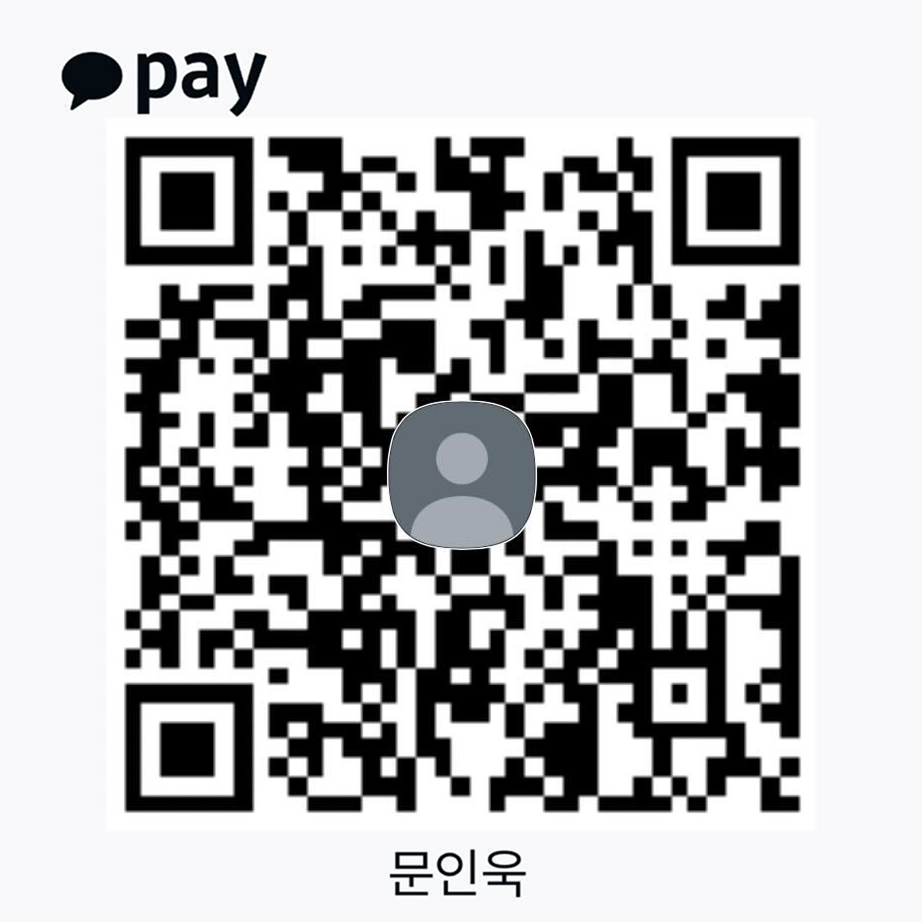
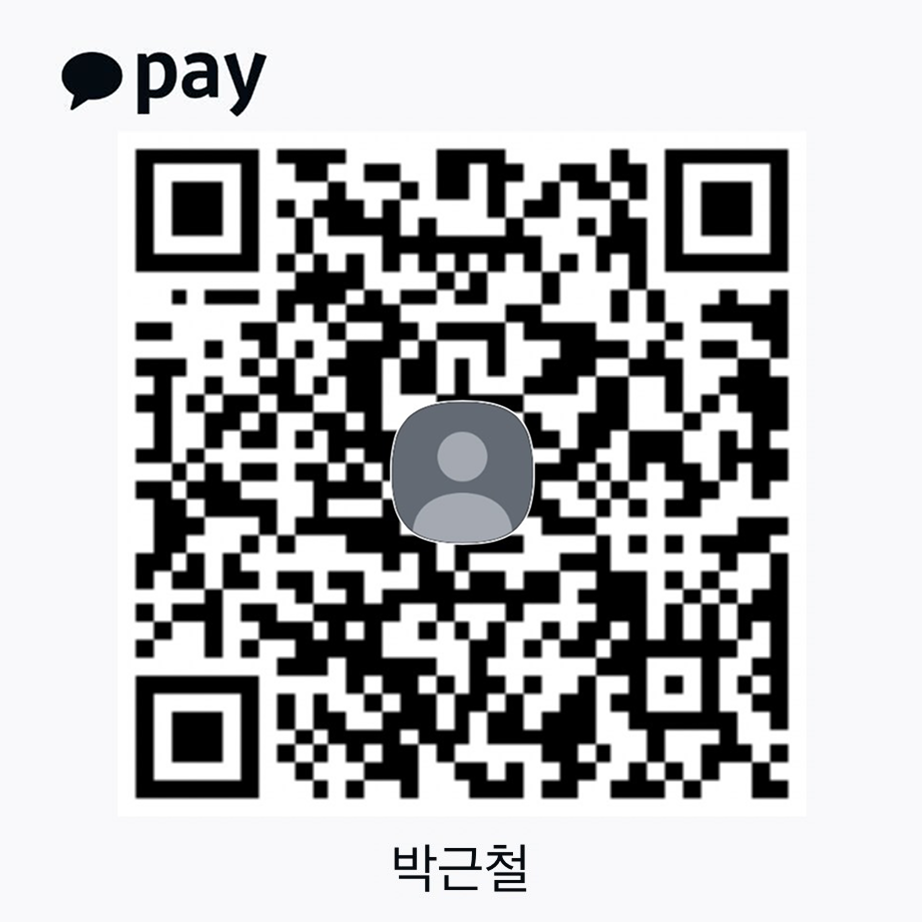
add dot spinner and update pay copy

Changed region(s): [[0.1215, 0.1215, 0.8807, 0.8807], [0.4252, 0.9111, 0.577, 0.9718], [0.4555, 0.5163, 0.5466, 0.5466]]

diff --git a/src/components/tabs/GenerationPage.tsx b/src/components/tabs/GenerationPage.tsx
@@ -9,6 +9,7 @@ import Hyundai_Q3 from '@/components/hyundaiSections/Hyundai_Q3';
 import hdStyles from "@/styles/hyundai.module.scss";
 import HyundaiGuideResult from '@/components/hyundaiSections/HyundaiGuideResults';
 import { HyundaiEssayOutputProps, HyundaiGuideOutputProps } from '@/types/forms';
+import { DotSpinner } from '../layoutSections/DotSpinner';
 
 export default function GenerationPage() {
   const { userData } = useUserData()
@@ -145,7 +146,8 @@ export default function GenerationPage() {
               </div>
               {running ? (
                 <div className={hdStyles.guideCtn}>
-                  {stageSetRef.current?.[stageIndex].text}<span className={hdStyles.animatedDots}></span>
+                  <div className='w-full pt-[2rem] text-center'>{stageSetRef.current?.[stageIndex].text}</div>
+                  <div className='w-full pt-8'><DotSpinner /></div>
                 </div>
               ) : (
                 guide ? 
@@ -185,23 +187,20 @@ export default function GenerationPage() {
                   <div className='flex flex-col justify-center gap-4'>
                     <div>
                       <strong>현대차 · 인사팀 출신 전문가들이 직접!</strong><br />
-                      자체 개발 자기소개서 전용 AI + 전문가가 검토하여 1번 문항 뿐만 아니라,<br />
-                      2/3번 문항까지 전문가의 언어로 작성을 도와드립니다.<br />
+                      500개의 합격자기소개서와 전문가의 협력으로 만든 자체 개발 자기소개서 전용 AI가 1번 문항 뿐만 아니라, <br />
+                      2/3번 문항까지 전문가의 언어로 작성을 도와드립니다.
                       <div className='text-left w-[fit-content]'>
-                        <span style={{ textDecoration: 'line-through'}}>1차 얼리버드 10,000원 (10/10명 마감)</span><br />
-                        <span style={{ textDecoration: 'line-through'}}>2차 얼리버드 20,000원 (10/10명 마감)</span><br />
-                        <span style={{ textDecoration: 'line-through'}}>3차 얼리버드 30,000원 (10/10명 마감)</span><br />
-                        4차 정가 50,000원 (1번 첨삭 포함) 
+                        <span >1차 얼리버드 10,000원 (~6월 29일 오후 6시)</span><br />
+                        <span >2차 얼리버드 20,000원 (~6월 29일 오후 8시)</span><br />
+                        <span >3차 정가 30,000원</span><br />
                       </div>
                     </div>
-
+{/* style={{ textDecoration: 'line-through'}} */}
                     <div>
                      <strong>서비스 신청 방안</strong><br />
                      <div className='flex flex-col'>
-                        <div>① 하단 계좌번호 또는 카카오페이로 입금합니다. 입금 후, 010-6642-9318로 입금자명/이메일 주소를 보내주세요</div>
-                        <div>② 바로지원 팀에서 입금 결과를 확인 후, 30분 내로 2/3번 문항 작성을 위한 설문조사를 진행 요청 드립니다.</div>
-                        <div>③ 설문조사 완료 시, 바로지원 팀에서 바로 자기소개서 작성 작업을 진행합니다.</div>
-                        <div>④ 가입하신 이메일로 최대 8시간 내로 완성된 결과물을 제공해 드립니다. (최대 2회 리뷰 가능).</div>
+                        <div>① 하단 계좌번호 또는 카카오페이로 입금합니다. 입금 후, 010-8961-1918로 입금자명/이메일 주소를 보내주세요</div>
+                        <div>② 바로지원 팀에서 입금 결과를 확인 후, 30분 내로 2/3번 문항을 활용할 수 있도록 작성 권한이 활성화됩니다.</div>
                       </div>
                     </div>
                     <div className='flex items-center justify-center gap-4 mr-4'>
@@ -212,8 +211,8 @@ export default function GenerationPage() {
                     />
                     <div>
                       <p className='text-sm text-center text-black'>카카오뱅크</p>
-                      <p className='font-extrabold text-center text-black'>3333016420692</p>
-                      <p className='text-center text-black'>문인욱 </p>
+                      <p className='font-extrabold text-center text-black'>3333058317631</p>
+                      <p className='text-center text-black'>박근철</p>
                     </div>
                   </div>
                   </div>
@@ -233,22 +232,19 @@ export default function GenerationPage() {
                   <div className='flex flex-col items-center justify-center gap-2'>
                     <div>
                       <strong>현대차 · 인사팀 출신 전문가들이 직접!</strong><br />
-                      자체 개발 자기소개서 전용 AI + 전문가가 검토하여 1번 문항 뿐만 아니라,<br />
-                      2/3번 문항까지 전문가의 언어로 작성을 도와드립니다.<br />
+                      500개의 합격자기소개서와 전문가의 협력으로 만든 자체 개발 자기소개서 전용 AI가 1번 문항 뿐만 아니라, <br />
+                      2/3번 문항까지 전문가의 언어로 작성을 도와드립니다.
                       <div className='text-left w-[fit-content] mx-auto'>
-                        <span style={{ textDecoration: 'line-through'}}>1차 얼리버드 10,000원 (10/10명 마감)</span><br />
-                        <span style={{ textDecoration: 'line-through'}}>2차 얼리버드 20,000원 (10/10명 마감)</span><br />
-                        <span style={{ textDecoration: 'line-through'}}>3차 얼리버드 30,000원 (10/10명 마감)</span><br />
-                        4차 정가 50,000원 (1번 첨삭 포함) 
+                        <span >1차 얼리버드 10,000원 (~6월 29일 오후 6시)</span><br />
+                        <span >2차 얼리버드 20,000원 (~6월 29일 오후 8시)</span><br />
+                        <span >3차 정가 30,000원</span><br />
                       </div>
                     </div>
                     <div>
                      <strong>서비스 신청 방안</strong><br />
                      <div className='flex flex-col items-start'>
-                        <div>① 하단 계좌번호 또는 카카오페이로 입금합니다. 입금 후, 010-6642-9318로 입금자명/이메일 주소를 보내주세요</div>
-                        <div>② 바로지원 팀에서 입금 결과를 확인 후, 30분 내로 2/3번 문항 작성을 위한 설문조사를 진행 요청 드립니다.</div>
-                        <div>③ 설문조사 완료 시, 바로지원 팀에서 바로 자기소개서 작성 작업을 진행합니다.</div>
-                        <div>④ 가입하신 이메일로 최대 8시간 내로 완성된 결과물을 제공해 드립니다. (최대 2회 리뷰 가능).</div>
+                        <div>① 하단 계좌번호 또는 카카오페이로 입금합니다. 입금 후, 010-8961-1918로 입금자명/이메일 주소를 보내주세요.</div>
+                        <div>② 바로지원 팀에서 입금 결과를 확인 후, 30분 내로 2/3번 문항을 활용할 수 있도록 작성 권한이 활성화됩니다.</div>
                       </div>
                       
                     </div>
@@ -260,8 +256,8 @@ export default function GenerationPage() {
                         />
                         <div>
                           <div className='text-sm text-center text-black'>카카오뱅크</div>
-                          <div className='font-extrabold text-center text-black'>3333016420692</div>
-                          <div className='text-center text-black'>문인욱 </div>
+                          <div className='font-extrabold text-center text-black'>3333058317631</div>
+                          <div className='text-center text-black'>박근철</div>
                         </div>
                       </div>
                   </div>

diff --git a/src/components/layoutSections/DotSpinner.tsx b/src/components/layoutSections/DotSpinner.tsx
@@ -1,0 +1,26 @@
+export const DotSpinner = () => (
+  <div className="relative w-full h-full">
+    {[...Array(9)].map((_, i) => (
+      <span
+        key={i}
+        className="absolute top-1/2 left-1/2 w-1.5 h-1.5 bg-gray-600 rounded-full"
+        style={{
+          transform: `rotate(${i * 45}deg) translate(12px)`,
+          animation: 'dotSpin 1.5s linear infinite',
+          animationDelay: `${i * 0.15}s`,
+          opacity: 1 - i * 0.1,
+        }}
+      />
+    ))}
+    <style jsx>{`
+      @keyframes dotSpin {
+        0% {
+          transform: rotate(0deg) translate(12px);
+        }
+        100% {
+          transform: rotate(360deg) translate(12px);
+        }
+      }
+    `}</style>
+  </div>
+);
